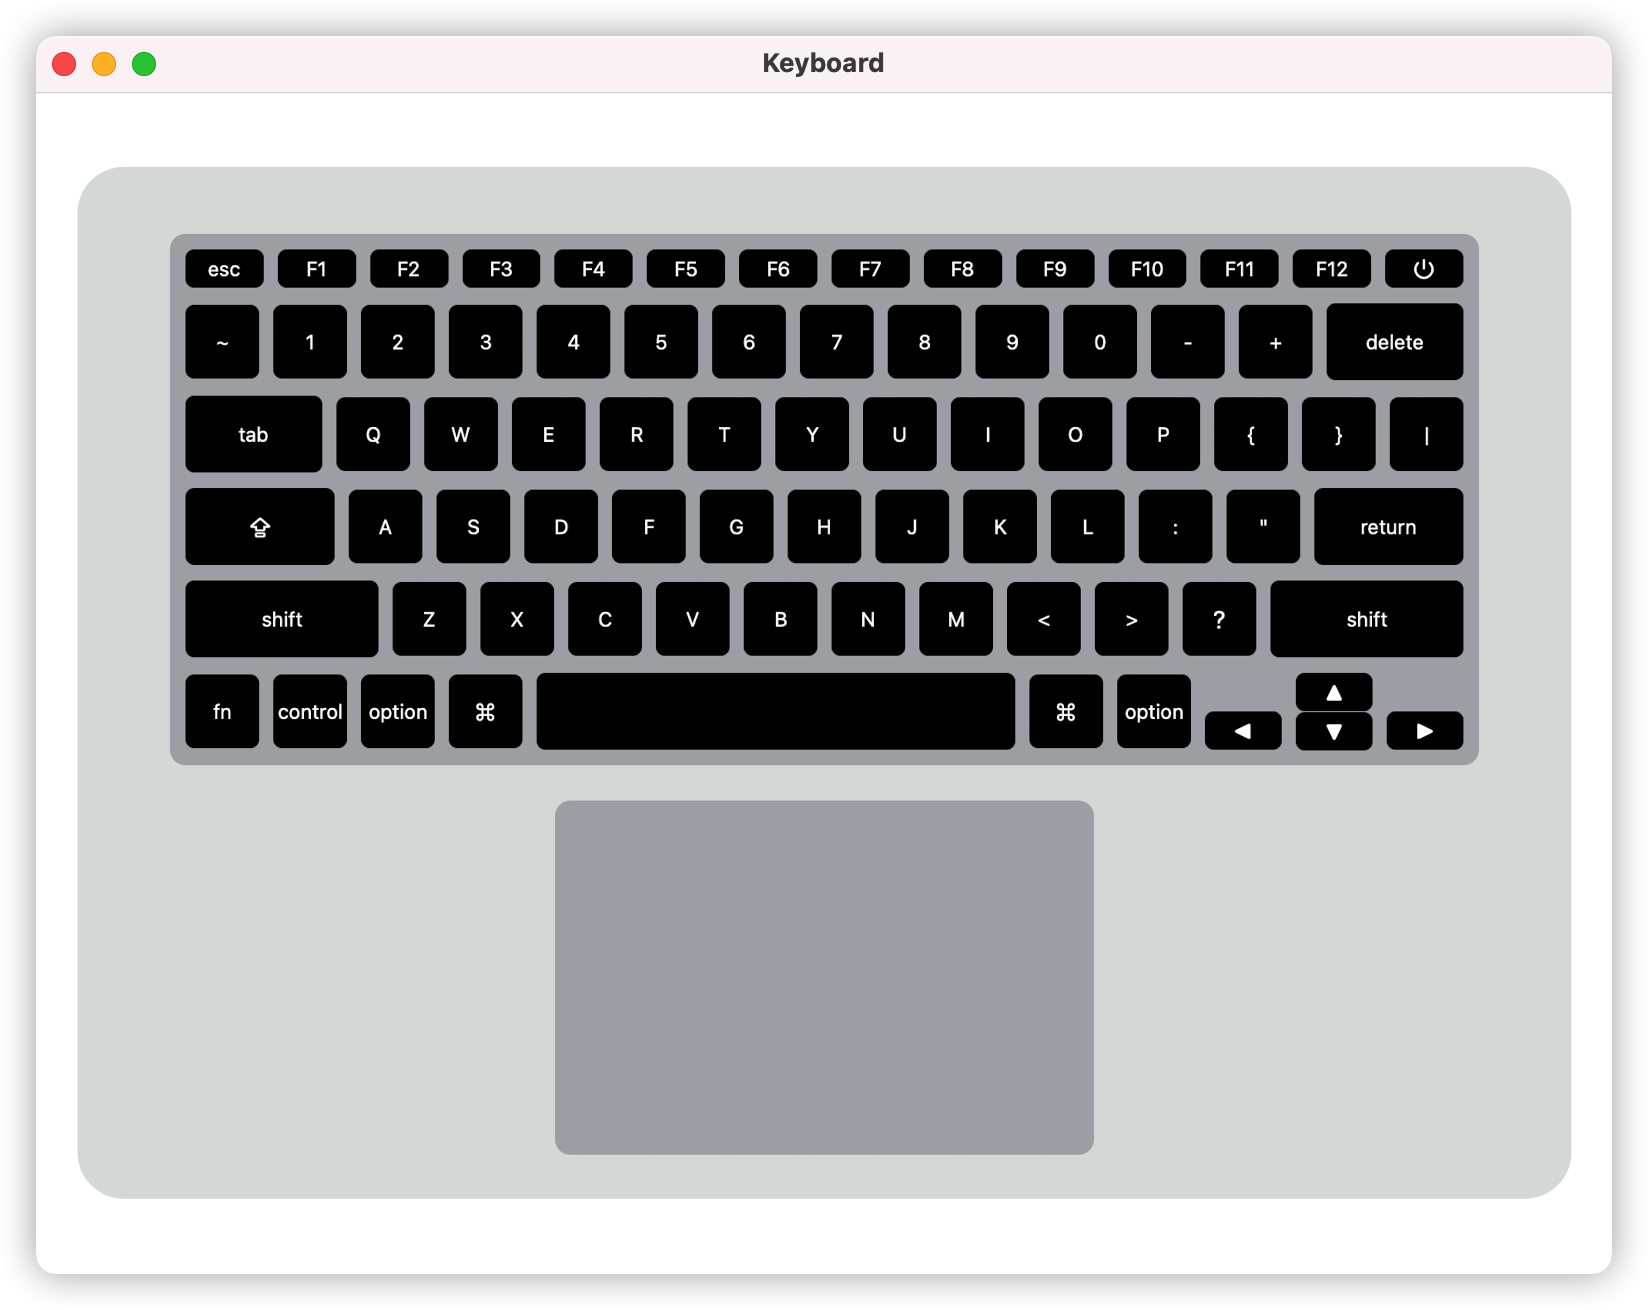
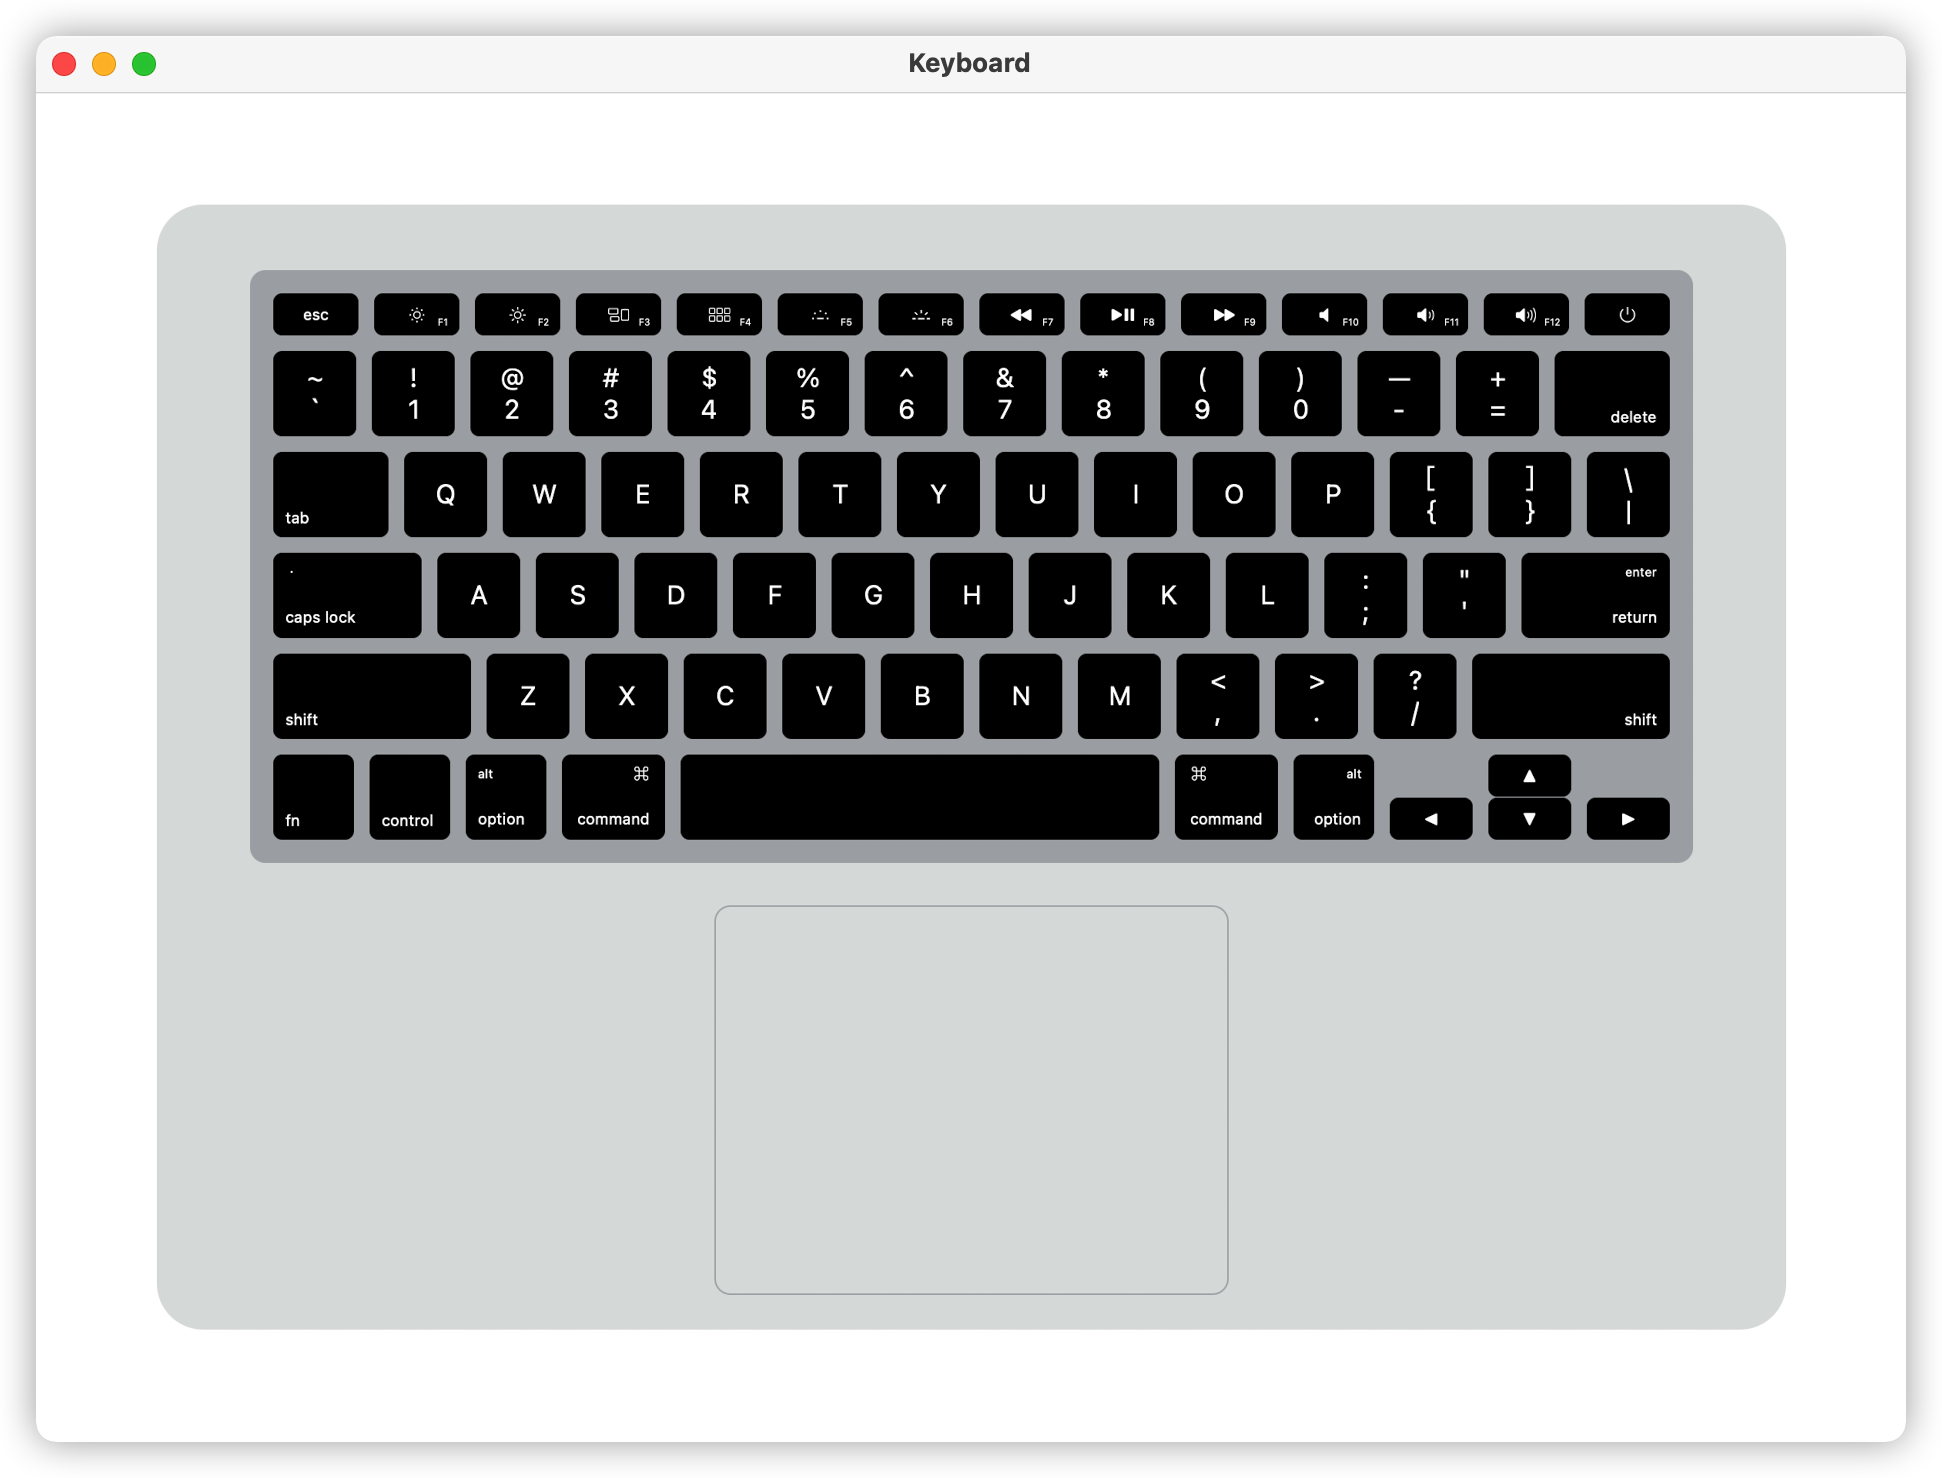
add

diff --git a/Keyboard/KeyboardView.swift b/Keyboard/KeyboardView.swift
@@ -5,106 +5,286 @@
 //  Created by goose on 2021/1/15.
 //
 
-
-let grey = Color(red: 171/255, green: 174/255, blue: 177/255)
-let grey1 = Color(red: 161/255, green: 161/255, blue: 166/255)
-let sliver = Color(red: 221/255, green: 223/255, blue: 222/255)
-
-let macBookColor = sliver
-let keyboardColor = grey
-let touchColor = keyboardColor
-
-let keySide: CGFloat = 50.0
-let keySapcing: CGFloat = 10.0
-let touchWidth: CGFloat = 6 * keySide + 5 * keySapcing
-let touchHeight: CGFloat = 4 * keySide + 3 * keySapcing
-let macBookWidth: CGFloat = 16 * keySide + 17 * keySapcing
-let macBookHeight: CGFloat = 11 * keySide + 12 * keySapcing
-let keyboardWidth: CGFloat = 14 * keySide + 13 * keySapcing
-let keyboardHeight: CGFloat = 5.5 * keySide + 5 * keySapcing
-
-let keyss = [
-    ["esc","F1","F2","F3","F4","F5","F6","F7","F8","F9","F10","F11","F12",""],
-    ["~","1","2","3","4","5","6","7","8","9","0","-","+","delete"],
-    ["tab","Q","W","E","R","T","Y","U","I","O","P","{","}","|"],
-    ["","A","S","D","F","G","H","J","K","L",":","\"","return"],
-    ["shift","Z","X","C","V","B","N","M","<",">","","shift"],
-    ["fn","control","option","","","","option","","",""]
-]
-
 import SwiftUI
+
+
+struct Keyboard {
+    enum Key {
+        enum Alignment {
+            case left
+            case right
+        }
+        case alphabet(String)
+        case symbol(String, String)
+        case function(String, String)
+        case side(String, String, Alignment)
+        case arrow(String)
+        case upDownArrow(String, String)
+        case option(String, String, Alignment)
+        case command(String, String, Alignment)
+        case space
+        case fn(String)
+        case control(String)
+    }
+    
+    static let grey = Color(red: 171/255, green: 174/255, blue: 177/255)
+    static let grey1 = Color(red: 161/255, green: 161/255, blue: 166/255)
+    static let sliver = Color(red: 221/255, green: 223/255, blue: 222/255)
+
+    static let keySide: CGFloat = 55.5
+    static let keySapcing: CGFloat = 10
+    static let touchWidth: CGFloat = 6 * keySide
+    static let touchHeight: CGFloat = 4 * keySide + 3 * keySapcing
+    static let macBookWidth: CGFloat = 16 * keySide + 17 * keySapcing
+    static let macBookHeight: CGFloat = 11 * keySide + 12 * keySapcing
+    static let keyboardWidth: CGFloat = 14 * keySide + 13 * keySapcing
+    static let keyboardHeight: CGFloat = 5.5 * keySide + 5 * keySapcing
+    
+    static let keyss:[[Keyboard.Key]] = [
+        [.function("esc", ""),
+         .function("F1", "sun.min"),
+         .function("F2", "sun.max"),
+         .function("F3", "rectangle.3.offgrid"),
+         .function("F4", "square.grid.3x2"),
+         .function("F5", "light.min"),
+         .function("F6", "light.max"),
+         .function("F7", "backward.fill"),
+         .function("F8", "playpause.fill"),
+         .function("F9", "forward.fill"),
+         .function("F10", "speaker.fill"),
+         .function("F11", "speaker.wave.2.fill"),
+         .function("F12", "speaker.wave.3.fill"),
+         .function("", "power")],
+        [.symbol("~", "`"),
+         .symbol("!", "1"),
+         .symbol("@", "2"),
+         .symbol("#", "3"),
+         .symbol("$", "4"),
+         .symbol("%", "5"),
+         .symbol("^", "6"),
+         .symbol("&", "7"),
+         .symbol("*", "8"),
+         .symbol("(", "9"),
+         .symbol(")", "0"),
+         .symbol("—", "-"),
+         .symbol("+", "="),
+         .side("delete", "", .right)],
+        [.side("tab", "", .left),
+         .alphabet("Q"),
+         .alphabet("W"),
+         .alphabet("E"),
+         .alphabet("R"),
+         .alphabet("T"),
+         .alphabet("Y"),
+         .alphabet("U"),
+         .alphabet("I"),
+         .alphabet("O"),
+         .alphabet("P"),
+         .symbol("[", "{"),
+         .symbol("]", "}"),
+         .symbol("\\", "|")],
+        [.side("caps lock", "・", .left),
+         .alphabet("A"),
+         .alphabet("S"),
+         .alphabet("D"),
+         .alphabet("F"),
+         .alphabet("G"),
+         .alphabet("H"),
+         .alphabet("J"),
+         .alphabet("K"),
+         .alphabet("L"),
+         .symbol(":", ";"),
+         .symbol("\"", "'"),
+         .side("return", "enter", .right)],
+        [.side("shift", "", .left),
+         .alphabet("Z"),
+         .alphabet("X"),
+         .alphabet("C"),
+         .alphabet("V"),
+         .alphabet("B"),
+         .alphabet("N"),
+         .alphabet("M"),
+         .symbol("<", ","),
+         .symbol(">", "."),
+         .symbol("?", "/"),
+         .side("shift", "", .right)],
+        [.fn("fn"),
+         .control("control"),
+         .option("option", "alt", .left),
+         .command("command", "command", .left),
+         .space,
+         .command("command", "command", .right),
+         .option("option", "alt", .right),
+         .arrow("arrowtriangle.left.fill"),
+         .upDownArrow("arrowtriangle.up.fill","arrowtriangle.down.fill"),
+         .arrow("arrowtriangle.right.fill")]
+    ]
+}
 
 struct KeyboardView: View {
     var body: some View {
         VStack {
             /// 按键区域
-            VStack(alignment: .leading, spacing: keySapcing) {
-                ForEach(0 ..< keyss.count) { m in
-                    HStack(spacing: keySapcing) {
-                        let keys = keyss[m]
-                        ForEach(0 ..< keys.count) { n in
-                            let end = keys.endIndex - 1
-                            let key = keys[n]
-                            switch (m, n) {
-                            case (0, _):
-                                KeyButton(text: key, height: keySide / 2)
-                            case (1, end),
-                                 (2, 0),
-                                 (3, 0), (3, end),
-                                 (4, 0), (4, end),
-                                 (5, 4):
-                                KeyButton(text: key)
-                                    .layoutPriority(1.0)
-                            case (5, end), (5, end - 2):
-                                VStack {
-                                    Spacer()
-                                    KeyButton(text: key, height: keySide / 2)
-                                }
-                            case (5, end - 1):
-                                VStack(spacing: 0.5) {
-                                    KeyButton(text: String(key.prefix(1)), height: keySide / 2)
-                                    KeyButton(text: String(key.suffix(1)), height: keySide / 2)
-                                }
-                            case (_, _):
-                                KeyButton(text: key, width: keySide - 2)
-                            }
+            VStack(alignment: .leading, spacing: Keyboard.keySapcing) {
+                ForEach(0 ..< Keyboard.keyss.count) { i in
+                    HStack(spacing: Keyboard.keySapcing) {
+                        let keys = Keyboard.keyss[i]
+                        ForEach(0 ..< keys.count) { j in
+                            KeyView(key: keys[j])
                         }
                     }
                 }
             }
-            .frame(width: keyboardWidth, height: keyboardHeight)
-            .padding(.all, 10.0)
-            .background(keyboardColor)
+            .frame(width: Keyboard.keyboardWidth, height: Keyboard.keyboardHeight)
+            .padding(15)
+            .background(Keyboard.grey)
             .cornerRadius(10.0)
             
             /// 触摸区域
-            touchColor
-                .frame(width: touchWidth, height: touchHeight, alignment: .center)
-                .cornerRadius(10.0)
-                .offset(y:15.0)
+            Keyboard.sliver
+                .frame(width: Keyboard.touchWidth, height: Keyboard.touchHeight, alignment: .center)
+                .overlay(RoundedRectangle(cornerRadius: 10.0).stroke(Keyboard.grey, lineWidth: 1))
+                .offset(y:20.0)
         }
-        .frame(width: macBookWidth,height: macBookHeight)
-        .background(macBookColor)
+        .frame(width: Keyboard.macBookWidth,height: Keyboard.macBookHeight)
+        .background(Keyboard.sliver)
         .cornerRadius(30.0)
     }
 }
 
-struct KeyButton: View {
-    var text: String
-    var height: CGFloat = keySide
-    var width: CGFloat = keySide
+
+struct KeyView: View {
+    var key: Keyboard.Key
     var body: some View {
-        GeometryReader { geometry in
-            Button(action: {
-                print(text)
-            }, label: {
+        switch key {
+        case .alphabet(let text):
+            KeyButton {
                 Text(text)
-                    .foregroundColor(.white)
-                    .font(.system(size: 13.0))
-                    .position(x: geometry.size.width / 2, y: geometry.size.height / 2)
-            })
+            }
+        case .function(let text, let image):
+            KeyButton(height: Keyboard.keySide / 2) {
+                ZStack(alignment: .center) {
+                    if !image.isEmpty {
+                        Image(systemName: image)
+                            .font(.system(size: 10.0))
+                    }
+                    if image.isEmpty {
+                        Text(text)
+                            .font(.system(size: 10.0))
+                    }else {
+                        Text(text)
+                            .font(.system(size: 6.0))
+                            .offset(x: 17, y: 5)
+                    }
+                }
+            }
+        case .symbol(let text, let text1):
+            KeyButton {
+                VStack {
+                    Text(text)
+                    Text(text1)
+                }
+            }
+        case .side(let t, let t1, let p):
+            KeyButton {
+                VStack(alignment: p == .left ? .leading : .trailing) {
+                    Text(t1)
+                        .font(.system(size: 8.0))
+                    Spacer()
+                        .frame(height: 18)
+                    Text(t)
+                        .font(.system(size: 10.0))
+                }
+                .alignment(p)
+            }
+            .layoutPriority(1)
+        case .arrow(let image):
+            VStack {
+                Spacer()
+                KeyButton(height: Keyboard.keySide / 2) {
+                    Image(systemName: image)
+                        .font(.system(size: 10.0))
+                }
+            }
+        case .upDownArrow(let image, let image1):
+            VStack(spacing: 0.5) {
+                KeyButton(height: Keyboard.keySide / 2) {
+                    Image(systemName: image)
+                }
+                KeyButton(height: Keyboard.keySide / 2) {
+                    Image(systemName: image1)
+                }
+            }
+            .font(.system(size: 10.0))
+        case .space:
+            KeyButton {
+                Spacer()
+            }
+            .layoutPriority(1)
+        case .command(let t, let i, let p):
+            KeyButton(width: Keyboard.keySide + 13) {
+                VStack(alignment: p == .right ? .leading : .trailing) {
+                    Image(systemName: i)
+                        .font(.system(size: 10.0))
+                    Spacer()
+                        .frame(height: 18)
+                    Text(t)
+                        .font(.system(size: 10.0))
+                }
+            }
+        case .option(let t, let i, let p):
+            KeyButton(width: Keyboard.keySide - 1.5) {
+                VStack(alignment: p == .left ? .leading : .trailing) {
+                    Text(i)
+                        .font(.system(size: 8.0))
+                    Spacer()
+                        .frame(height: 18)
+                    Text(t)
+                        .font(.system(size: 10.0))
+                }
+                .alignment(p)
+            }
+        case .fn(let t), .control(let t):
+            KeyButton(width: Keyboard.keySide - 1.5) {
+                VStack {
+                    Text("")
+                        .font(.system(size: 8.0))
+                    Spacer()
+                        .frame(height: 18)
+                    Text(t)
+                        .font(.system(size: 10.0))
+                }
+                .alignment(.left)
+            }
         }
-        .frame(minWidth: width, maxWidth: .infinity, minHeight: height, maxHeight: height)
+    }
+}
+
+extension View {
+    func alignment(_ p: Keyboard.Key.Alignment) -> some View {
+        HStack {
+            if p == .right {Spacer()}
+            if p == .left {Spacer().frame(width: 8)}
+            self
+            if p == .left {Spacer()}
+            if p == .right {Spacer().frame(width: 8)}
+            
+        }
+    }
+}
+
+struct KeyButton<Label>: View where Label: View{
+    var height: CGFloat = Keyboard.keySide
+    var width: CGFloat = Keyboard.keySide
+    var label: () -> Label
+    var action: () -> Void = {}
+    var body: some View {
+        Button(action: {
+            action()
+        }, label: {
+            label().foregroundColor(.white)
+        })
+        .frame(minWidth: width - 1.5, maxWidth: .infinity, minHeight: height - 1.5, maxHeight: height)
         .background(Color(.black))
         .cornerRadius(6.0)
     }
